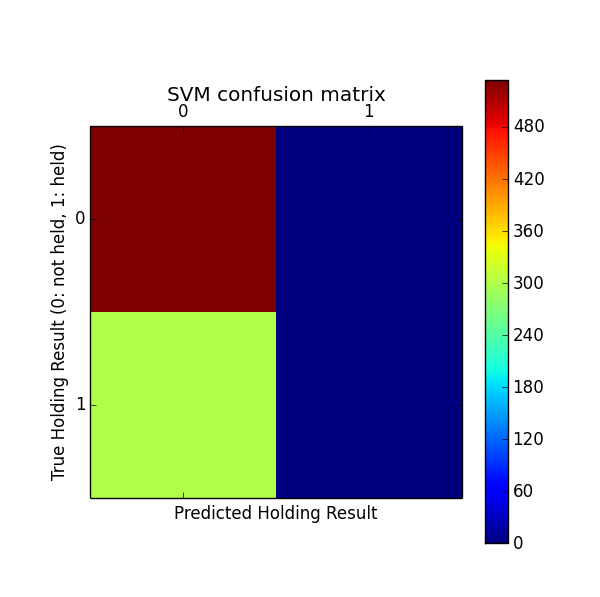
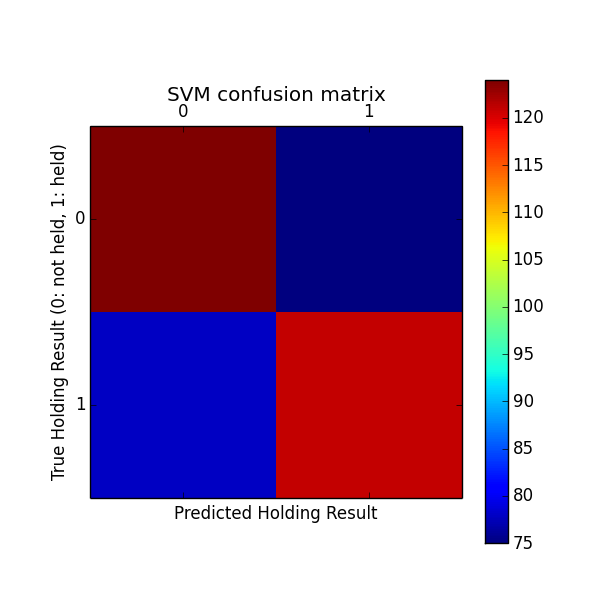
Done with SVM confusion matrix

diff --git a/Project/Model/logistic_regression.py b/Project/Model/logistic_regression.py
@@ -46,7 +46,7 @@ fe.include_all_categories()
 fe.change_section_weight(feature_extractor.INDEX_SEC_HELD, 0)
 
 cases_relative_path = 'Cases'
-feature_vectors = fe.compute_word_weights_to_hold_result(cases_relative_path, 10, 10)
+feature_vectors = fe.compute_word_weights_to_hold_result(cases_relative_path, 0, 0)
 
 # Get all possible words.
 words = set()

diff --git a/Project/main.py b/Project/main.py
@@ -34,7 +34,7 @@ fe.change_section_weight(feature_extractor.INDEX_SEC_DISCUSSION, 0)
 
 cases_relative_path = 'Cases'
 
-features = fe.compute_word_weights_to_hold_result(cases_relative_path, 10, 10)
+features = fe.compute_word_weights_to_hold_result(cases_relative_path, 0, 0)
 num_pos = 0
 num_neg = 0
 for feature in features:
